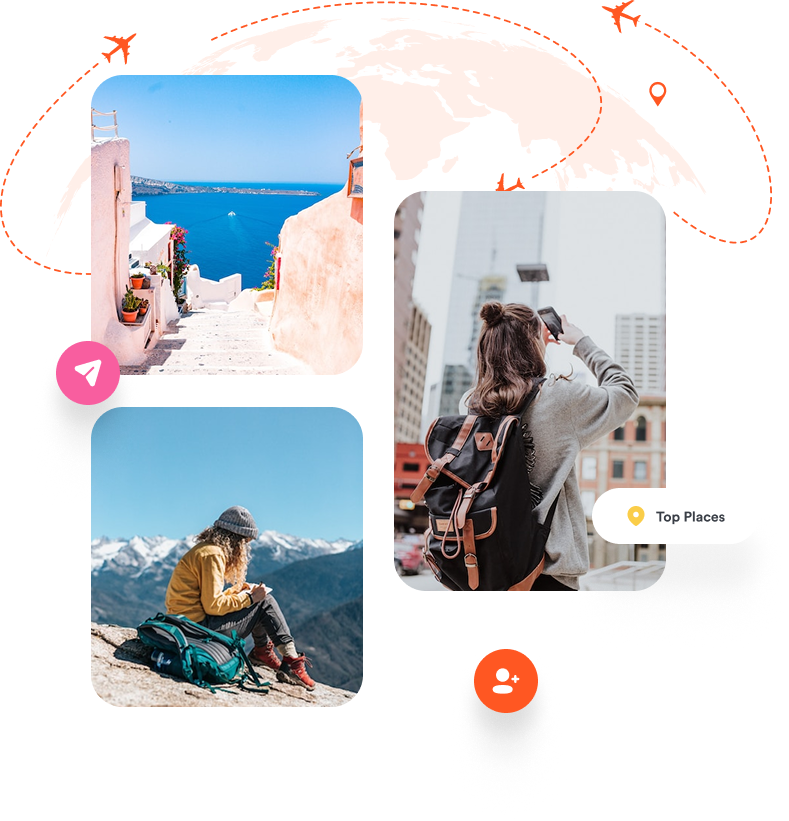
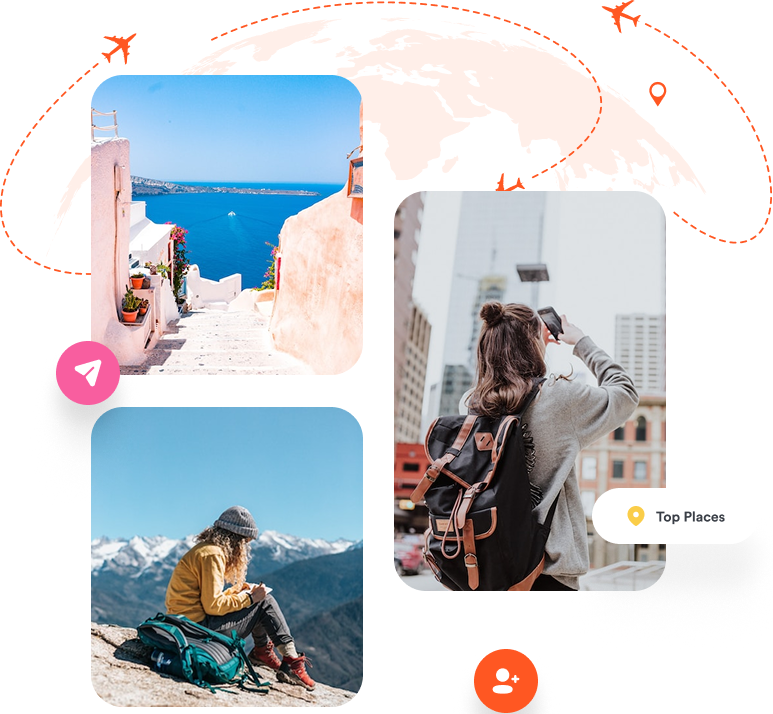
NB-RU-02 Hero section : feat test

diff --git a/src/styles/layout/_hero.scss b/src/styles/layout/_hero.scss
@@ -32,6 +32,7 @@
     &__container {
         position: relative;
         z-index: z(drawer);
+        text-align: center;
         @include flex(
             $justify: center,
             $align: center,
@@ -39,10 +40,24 @@
             $gap: px-to-rem(32)
         );
         margin-top: px-to-rem(35); // this now works!
+
+        @include breakpoint('lg') {
+            margin-top: px-to-rem(0); // this now works!
+            @include flex(
+                $justify: center,
+                $align: center,
+                $direction: column,
+                $gap: px-to-rem(64)
+            );
+            // padding: 0 px-to-rem(200);
+        }
     }
 
     &__img {
-        height: px-to-rem(366);
+        // height: px-to-rem(366);
+        @include breakpoint('lg') {
+            padding: px-to-rem(64) px-to-rem(62) 0 px-to-rem(64);
+        }
         width: auto;
     }
 
@@ -77,6 +92,15 @@
             button {
                 width: 100%;
             }
+
+            @include breakpoint('lg') {
+                width: auto;
+                @include flex($direction: row, $gap: px-to-rem(16));
+            }
+        }
+
+        @include breakpoint('lg') {
+            padding: 0 px-to-rem(140);
         }
     }
 

diff --git a/index.html b/index.html
@@ -99,7 +99,10 @@
 
                 <div class="hero-section__content">
                     <div class="hero-section__content-details">
-                        <button class="hero-section__explore">
+                        <button
+                            class="hero-section__explore"
+                            aria-label="Explore the world"
+                        >
                             Explore the world!
                             <i class="icon-message"></i>
                         </button>

diff --git a/src/styles/components/_button.scss b/src/styles/components/_button.scss
@@ -18,6 +18,10 @@ button {
 
 .button2 {
     padding: px-to-rem(24) px-to-rem(32);
+
+    @include breakpoint('lg') {
+        padding: px-to-rem(16) px-to-rem(32);
+    }
 }
 
 .primary-button {

diff --git a/src/styles/base/_typography.scss b/src/styles/base/_typography.scss
@@ -22,7 +22,7 @@ h1 {
     line-height: 120%;
 
     @include breakpoint('lg') {
-        font-size: px-to-rem(55);
+        font-size: px-to-rem(56);
     }
 
     @include breakpoint('xl') {

diff --git a/src/styles/layout/_header.scss b/src/styles/layout/_header.scss
@@ -64,6 +64,7 @@
 
         @include breakpoint('lg') {
             display: block;
+            @include flex($justify: center, $align: center);
             order: 3;
         }
 
